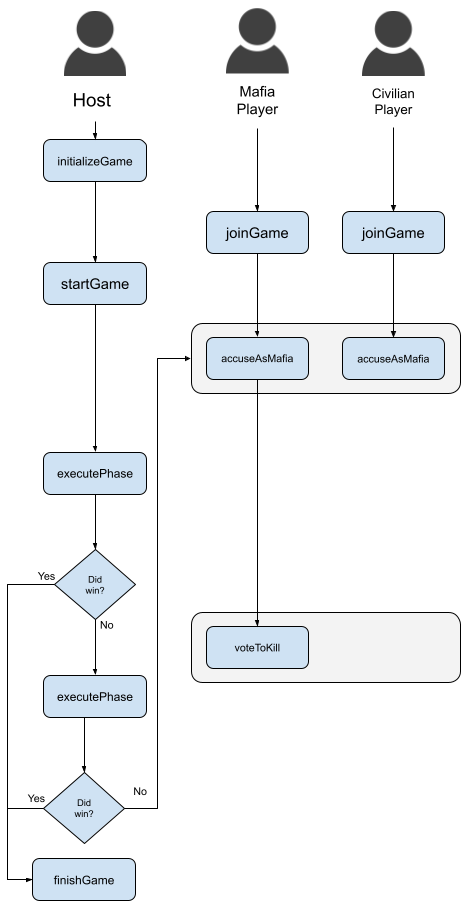
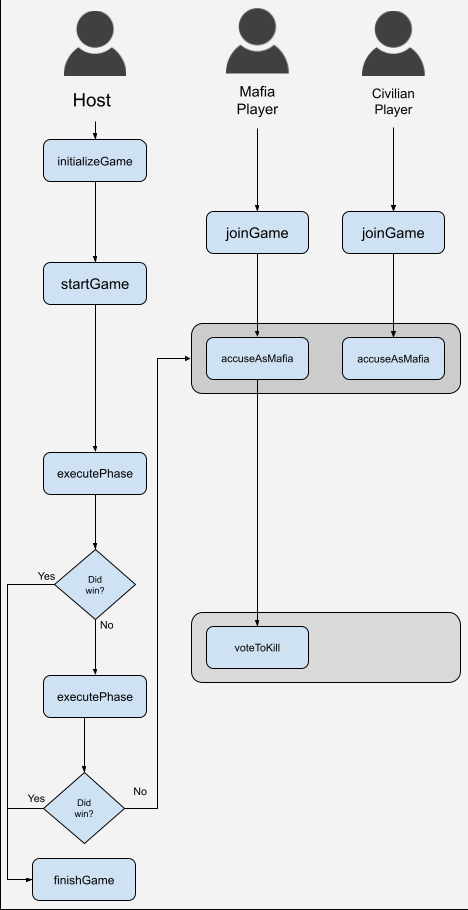
Try making the workflow more readable another way

Changed region(s): [[0.3889, 0.6462, 0.9872, 0.7692], [0.3889, 0.3385, 0.9872, 0.4308], [0.0, 0.9846, 0.0299, 1.0]]

diff --git a/README.md b/README.md
@@ -29,9 +29,7 @@ Victory is achieved through the following conditions:
 
 This diagram shows the flow of function calls in the contract needed to run a game of Mafia. Note that the host user defined here can also be a player - it's only separated out to illustrate the different roles (as a player can be both Mafia and host or Civilian and host).
 
-<div style="background-color: #C9C9C9; text-align: center; width: 100%">
-    <img src="./docs/images/player_workflow.png" />
-</div>
+<img src="./docs/images/player_workflow.png" />
 
 ## Development
 
